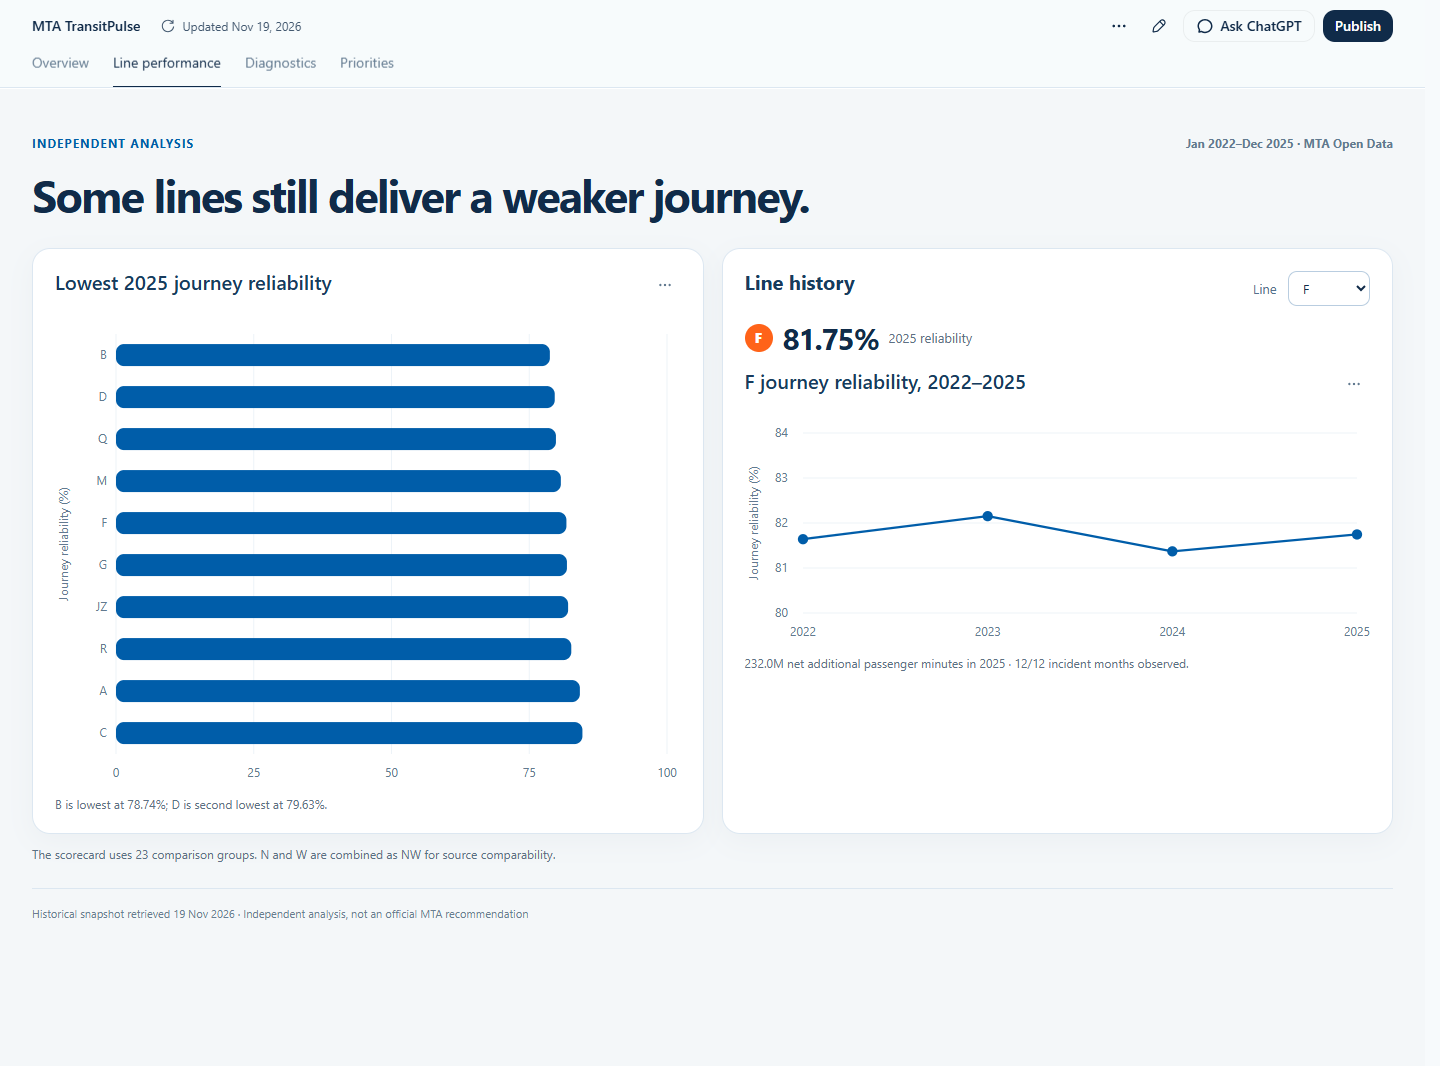
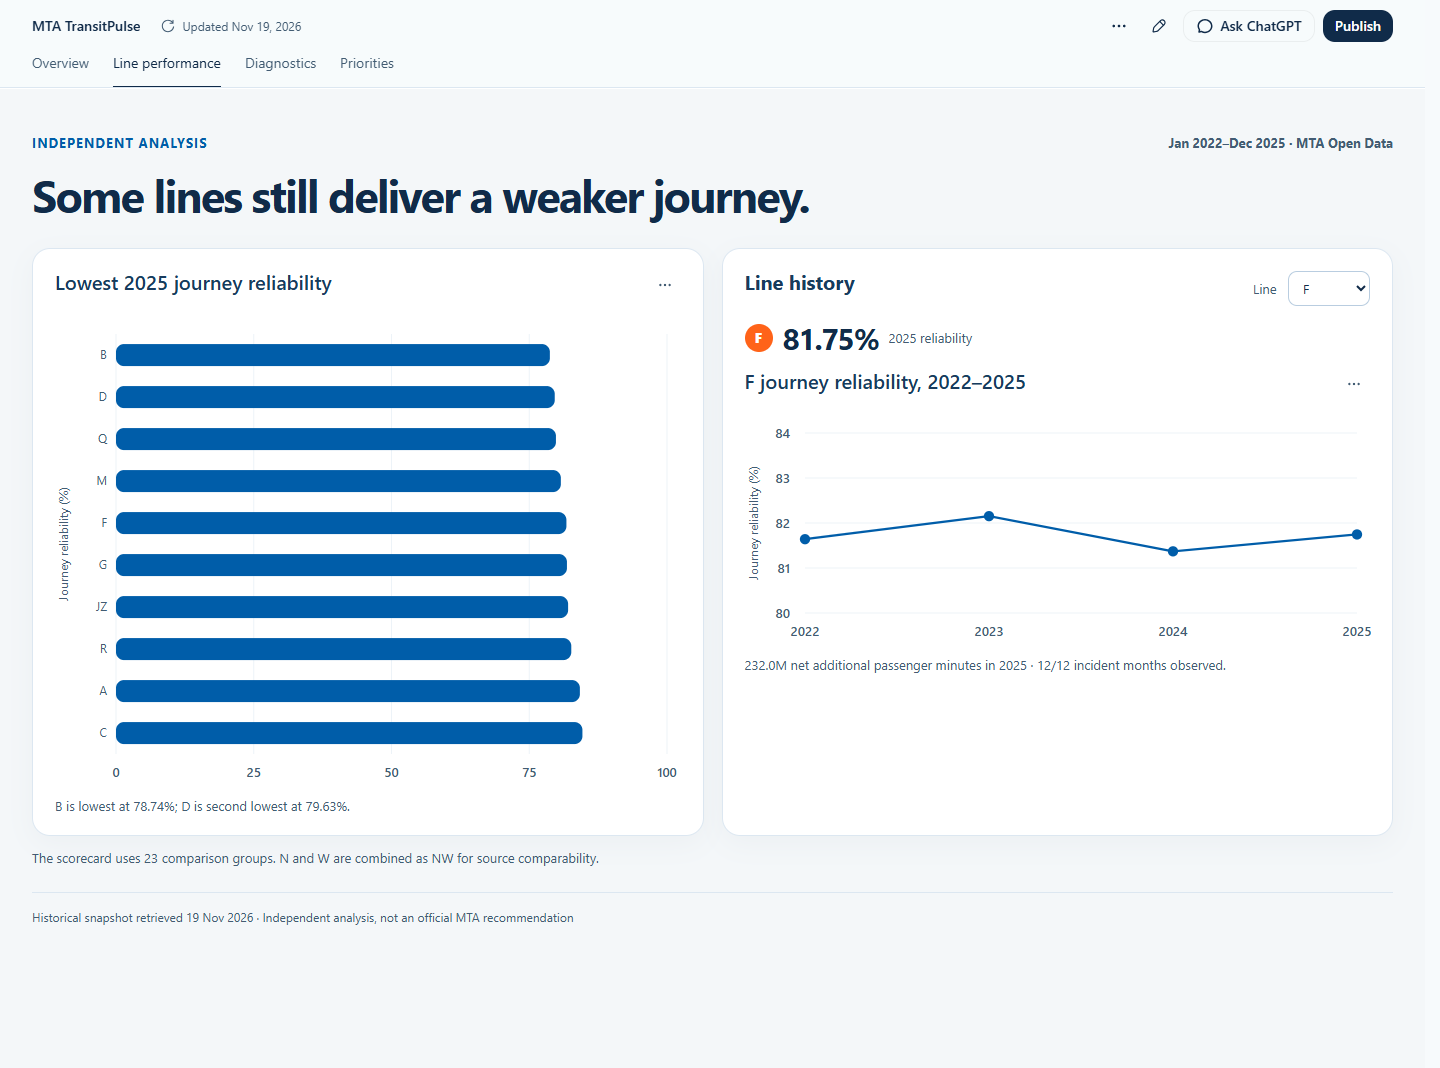
Improve dashboard text and chart contrast

diff --git a/dashboards/transitpulse-web/src/content/dashboard/dashboard.css b/dashboards/transitpulse-web/src/content/dashboard/dashboard.css
@@ -1,6 +1,6 @@
 .tp-dashboard { color: var(--text); padding: 10px 0 46px; }
 .tp-intro { margin: 10px 0 28px; }
-.tp-intro__top { display: flex; justify-content: space-between; gap: 12px; color: #627a90; font-size: 12px; font-weight: 650; }
+.tp-intro__top { display: flex; justify-content: space-between; gap: 12px; color: var(--secondary); font-size: 13px; font-weight: 650; }
 .tp-intro__top span:first-child { color: #005da9; text-transform: uppercase; letter-spacing: .08em; }
 .tp-intro h1 { max-width: 1050px; margin: 16px 0 0; color: #102b49; font-size: clamp(28px, 3.15vw, 46px); line-height: 1.12; letter-spacing: -.045em; font-weight: 750; }
 .tp-metrics { display: grid; grid-template-columns: repeat(3, minmax(0, 1fr)); gap: 14px; margin-bottom: 18px; }
@@ -8,19 +8,22 @@
 .tp-panel { min-width: 0; padding: 20px 22px; border: 1px solid #dce7f1; border-radius: 18px; background: #fff; box-shadow: 0 8px 28px rgb(17 50 83 / 4%); }
 .tp-panel h2 { margin: 0 0 14px; color: #183b5d; font-size: 20px; line-height: 1.25; }
 .tp-panel__heading { display: flex; align-items: center; justify-content: space-between; gap: 12px; }
-.tp-panel__heading label { white-space: nowrap; font-size: 13px; color: #55718d; }
+.tp-panel__heading label { white-space: nowrap; font-size: 13px; color: var(--secondary); }
 .tp-panel__heading select { margin-left: 8px; padding: 7px 10px; border: 1px solid #b9cde0; border-radius: 9px; background: #fff; color: #102b49; font: inherit; }
-.tp-note { margin: 12px 0 0; color: #5c7185; font-size: 12px; line-height: 1.45; }
+.tp-note { margin: 12px 0 0; color: var(--secondary); font-size: 13px; line-height: 1.5; }
 .tp-callout { display: flex; flex-wrap: wrap; align-items: center; gap: 8px; margin-top: 18px; padding: 14px 18px; border-left: 4px solid #f36b21; border-radius: 8px; background: #f3f8fc; font-size: 13px; color: #294c6f; }
 .tp-callout strong { color: #005da9; font-size: 20px; margin-left: 14px; }
 .tp-route { display: inline-flex; align-items: center; justify-content: center; min-width: 28px; height: 28px; padding: 0 5px; border-radius: 50%; background: #677a8d; color: #fff; font-size: 13px; font-weight: 800; line-height: 1; }
 .tp-route--orange { background: #ff6319; }.tp-route--yellow { background: #fccc0a; color: #152536; }.tp-route--blue { background: #0039a6; }.tp-route--number { background: #ee352e; }
-.tp-line-stat { display: flex; align-items: center; gap: 10px; margin: 16px 0; color: #5c7185; font-size: 13px; }
+.tp-line-stat { display: flex; align-items: center; gap: 10px; margin: 16px 0; color: var(--secondary); font-size: 13px; }
 .tp-line-stat strong { color: #102b49; font-size: 30px; letter-spacing: -.04em; }
 .tp-priority-list { display: flex; flex-direction: column; }
 .tp-priority-item { display: flex; align-items: center; gap: 13px; padding: 12px 0; border-bottom: 1px solid #e4edf4; color: #294c6f; font-size: 14px; line-height: 1.4; }
 .tp-priority-item:last-of-type { border-bottom: 0; }.tp-priority-list .tp-note { margin-top: auto; padding-top: 12px; }
 .tp-dashboard [data-component-id="priority-table"] { margin-top: 18px; }
-.tp-footer { margin-top: 24px; padding-top: 15px; border-top: 1px solid #dce7f1; color: #6a7e91; font-size: 11px; }
+.tp-footer { margin-top: 24px; padding-top: 15px; border-top: 1px solid #dce7f1; color: var(--secondary); font-size: 12px; line-height: 1.5; }
+.tp-dashboard .recharts-cartesian-axis-tick-value,
+.tp-dashboard .recharts-legend-item-text { font-size: 13px; font-weight: 500; }
+.tp-dashboard .chart-axis-label { font-size: 13px; }
 @media (max-width: 850px) { .tp-grid { grid-template-columns: 1fr; } .tp-metrics { grid-template-columns: 1fr; } }
 @media (max-width: 540px) { .tp-panel { padding: 16px; } .tp-intro__top { flex-direction: column; gap: 4px; } }

diff --git a/dashboards/transitpulse-web/src/theme.css b/dashboards/transitpulse-web/src/theme.css
@@ -12,7 +12,7 @@
   --interaction-hover: var(--muted);
   --interaction-active: var(--control-hover);
   --text: light-dark(#102b49, #ecf5fc);
-  --secondary: light-dark(#627a90, #a8bfd2);
+  --secondary: light-dark(#425c73, #c5d6e5);
   --border: light-dark(#dce7f1, #35516b);
   --border-strong: var(--color-border-heavy, light-dark(#dfdfdf, #414141));
   --accent: light-dark(#005da9, #75b8ef);
